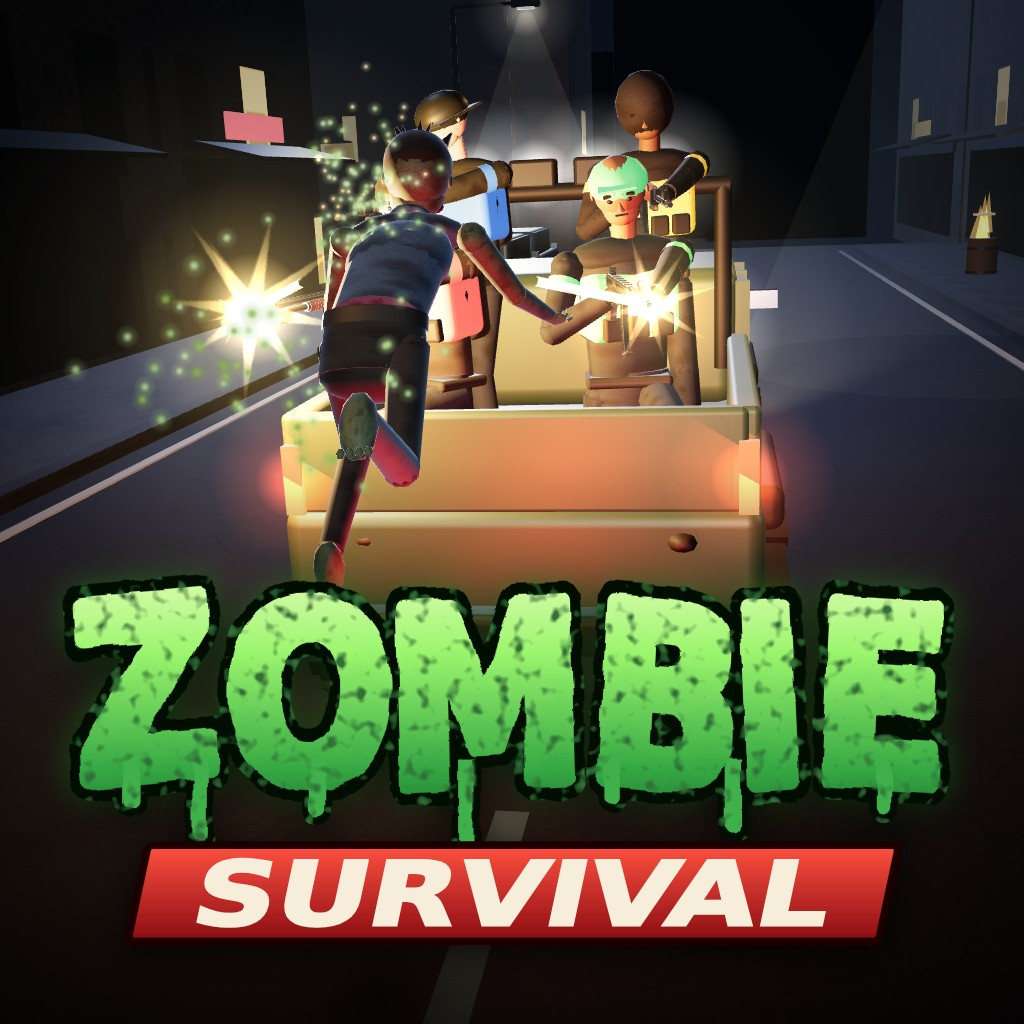
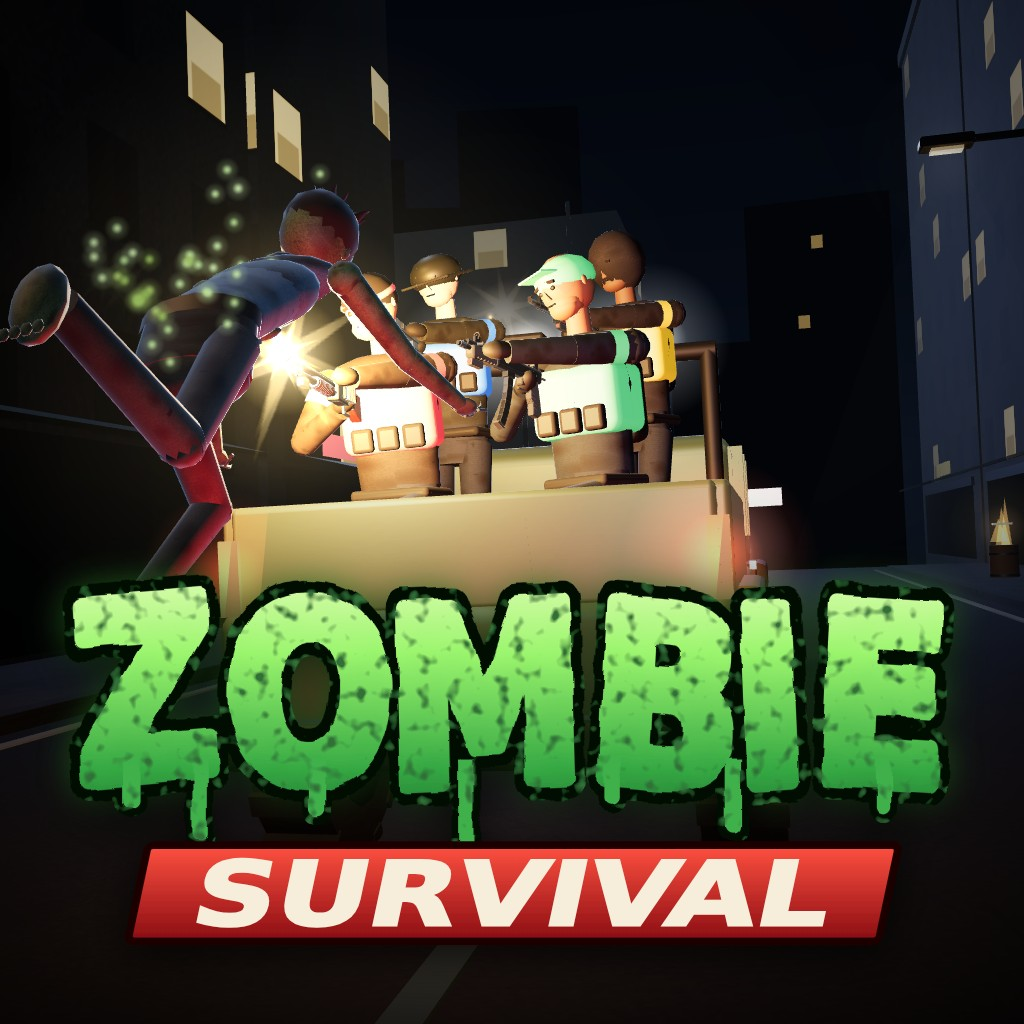
Save unfinished work after a container restart
Claude-Session: https://claude.ai/code/session_01D1DBDL5jLRnzHEGNERorxo

diff --git a/src/games/zombie-survival/showcase/stills.ts b/src/games/zombie-survival/showcase/stills.ts
@@ -19,10 +19,10 @@ export interface Still {
  */
 export const STILLS: Record<"icon" | "poster", Still> = {
   icon: {
-    story: 6.365,
+    story: 6.27,
     runUp: 0.6,
     seed: 21,
-    camera: (t) => ({ position: [t.x + 0.8, 2.5, t.z + 7.4], lookAt: [t.x - 0.1, 1.05, t.z + 2.2], fov: 46, roll: 0.04 }),
+    camera: (t) => ({ position: [t.x + 4.6, 1.2, t.z + 8.6], lookAt: [t.x - 0.2, 1.3, t.z + 3.2], fov: 50, roll: 0.03 }),
   },
   poster: {
     story: 2.305,
